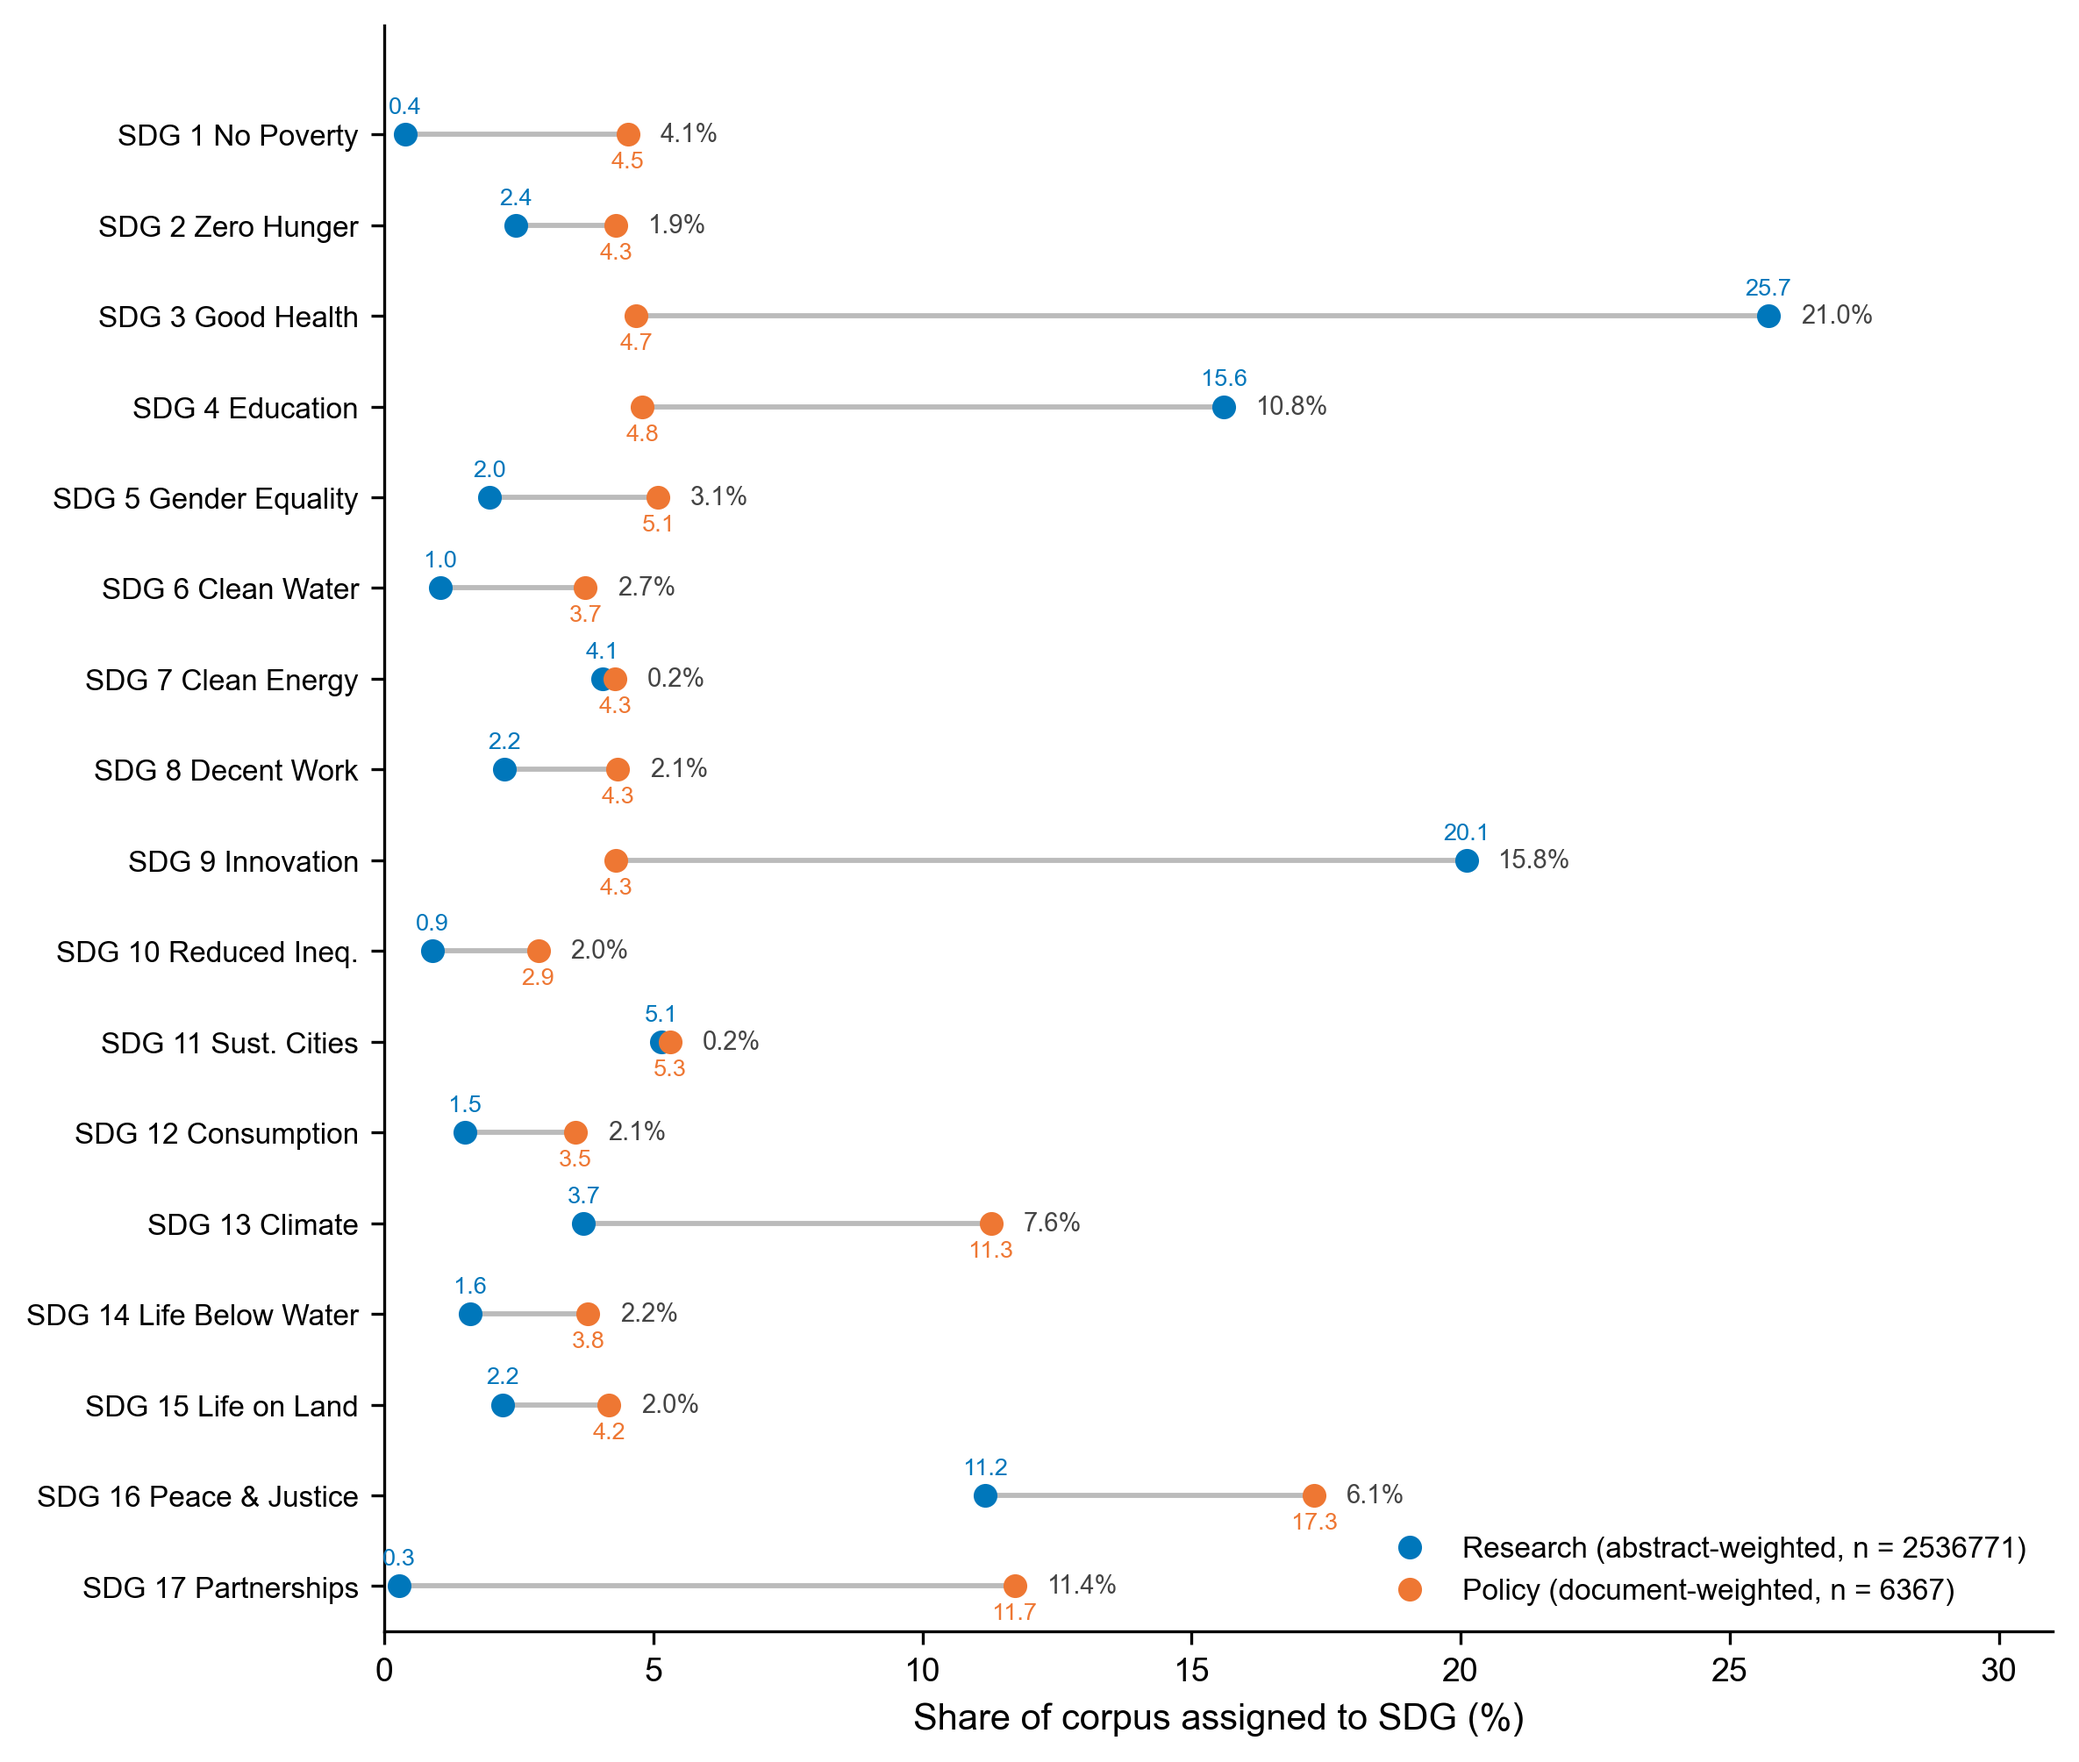
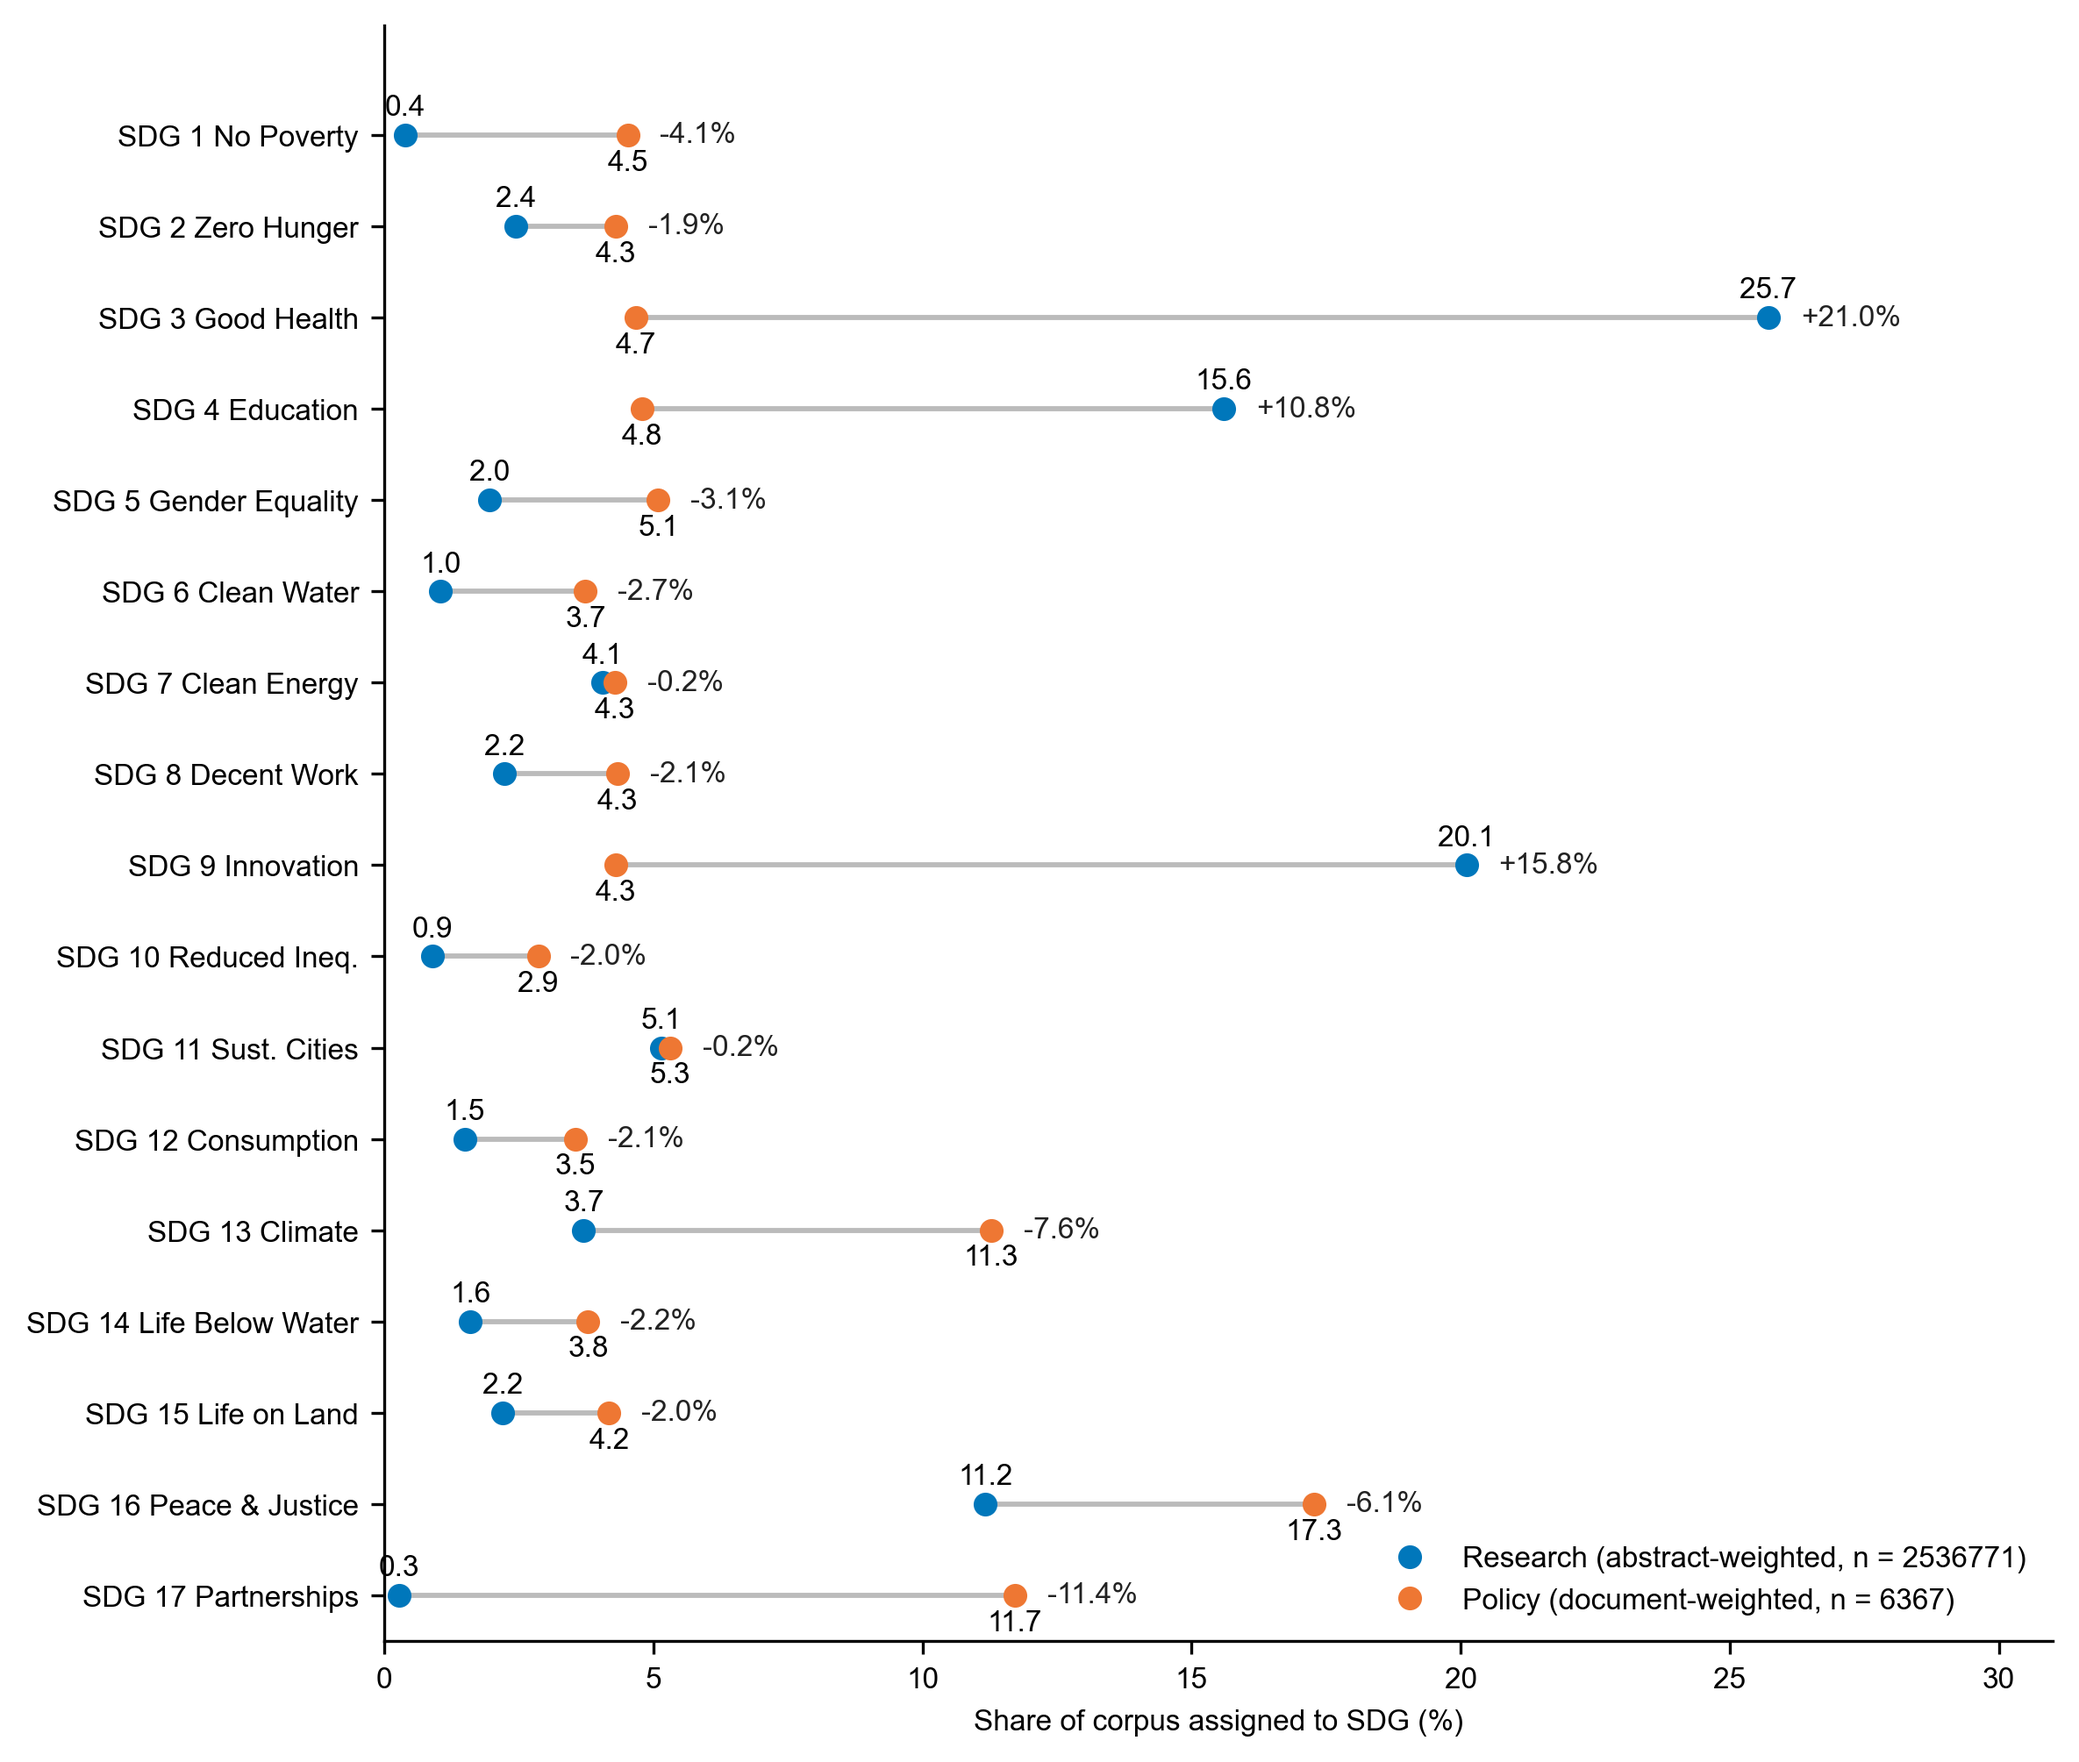
Fig 3 coverage dumbbell: black/signed labels, uniform 8pt text

diff --git a/1_code/8_visualization/plot_figures.py b/1_code/8_visualization/plot_figures.py
@@ -676,10 +676,10 @@ def plot_coverage_dumbbell(df: pd.DataFrame, figures_dir: Path,
 
     Redesign of the former grouped bar chart: one row per SDG with research
     and policy dots on a common % axis. The research share is labelled above
-    its dot, the policy share below its dot, and the coverage gap (absolute,
-    same % unit as the axis — no pp/% mixing) right of the righter-most dot
-    of the row. Palette: this is the one pair that earns the full blue/orange
-    contrast (research vs policy).
+    its dot (black), the policy share below its dot (black), and the coverage
+    gap as a signed dominance value (research − policy, %) right of the
+    righter-most dot of the row. Palette: this is the one pair that earns the
+    full blue/orange contrast (research vs policy).
     """
     sdgs = list(range(1, 18))
     res = {int(r["sdg"]): float(r["research_pct"]) for _, r in df.iterrows()}
@@ -691,20 +691,21 @@ def plot_coverage_dumbbell(df: pd.DataFrame, figures_dir: Path,
         ax.plot([xr, xp], [i, i], color="#BBBBBB", lw=1.4, zorder=1)
         ax.plot(xr, i, "o", color=RESEARCH_COLOR, ms=5.5, zorder=2)
         ax.plot(xp, i, "o", color=POLICY_COLOR, ms=5.5, zorder=2)
-        ax.text(xr, i - 0.30, f"{xr:.1f}", ha="center", va="center", fontsize=6.5,
-                color=RESEARCH_COLOR)
-        ax.text(xp, i + 0.30, f"{xp:.1f}", ha="center", va="center", fontsize=6.5,
-                color=POLICY_COLOR)
-        gap = abs(xr - xp)
-        ax.text(max(xr, xp) + 0.6, i, f"{gap:.1f}%", ha="left", va="center",
-                fontsize=7, color="#444444")
+        ax.text(xr, i - 0.30, f"{xr:.1f}", ha="center", va="center", fontsize=8,
+                color="black")
+        ax.text(xp, i + 0.30, f"{xp:.1f}", ha="center", va="center", fontsize=8,
+                color="black")
+        gap = xr - xp
+        ax.text(max(xr, xp) + 0.6, i, f"{gap:+.1f}%", ha="left", va="center",
+                fontsize=8, color="#222222")
     ax.set_yticks(y)
     ax.set_yticklabels([SDG_SHORT[s].replace("\n", " ") for s in sdgs], fontsize=8)
+    ax.tick_params(axis="x", labelsize=8)
     ax.axvline(0, color="black", lw=0.5)
     ax.set_xlim(0, 31)
     # y inverted by the (bottom, top) ordering of set_ylim: SDG 1 at the top.
     ax.set_ylim(len(sdgs) - 0.5, -1.2)
-    ax.set_xlabel("Share of corpus assigned to SDG (%)")
+    ax.set_xlabel("Share of corpus assigned to SDG (%)", fontsize=8)
     ax.legend(handles=[
         plt.Line2D([0], [0], marker="o", ls="None", color=RESEARCH_COLOR, ms=5.5,
                    label=f"Research (abstract-weighted, n = {n_research})"),
